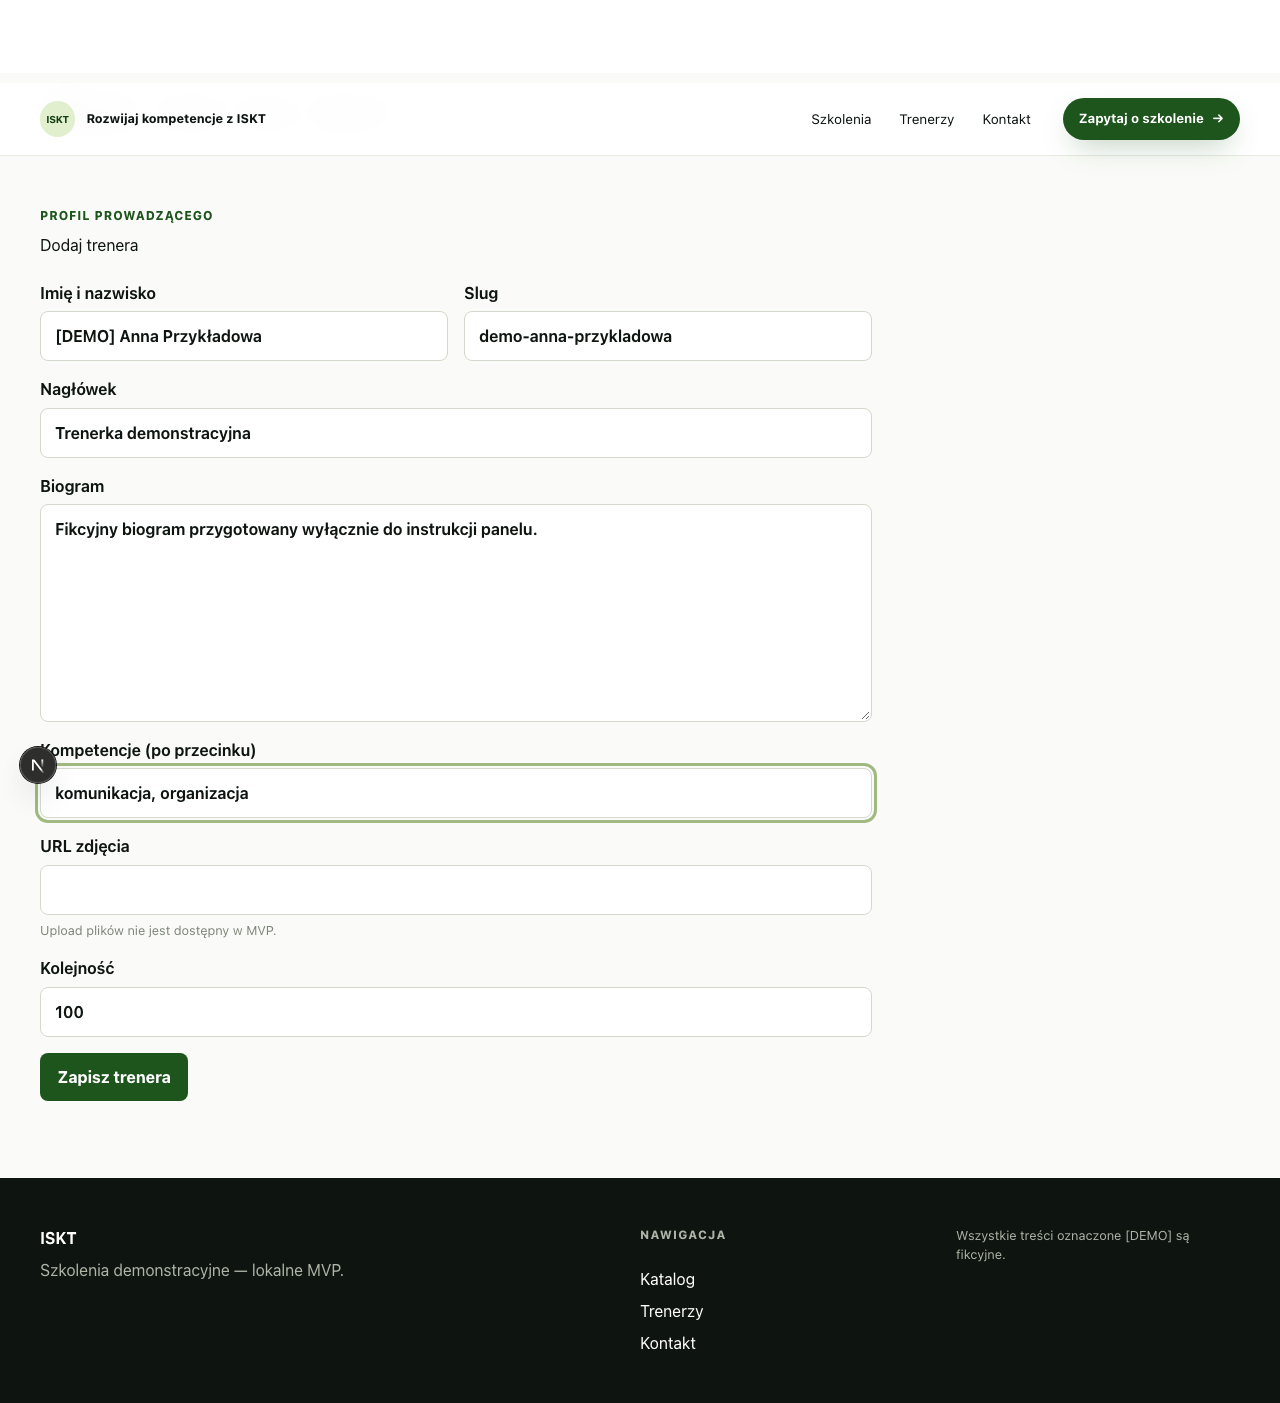
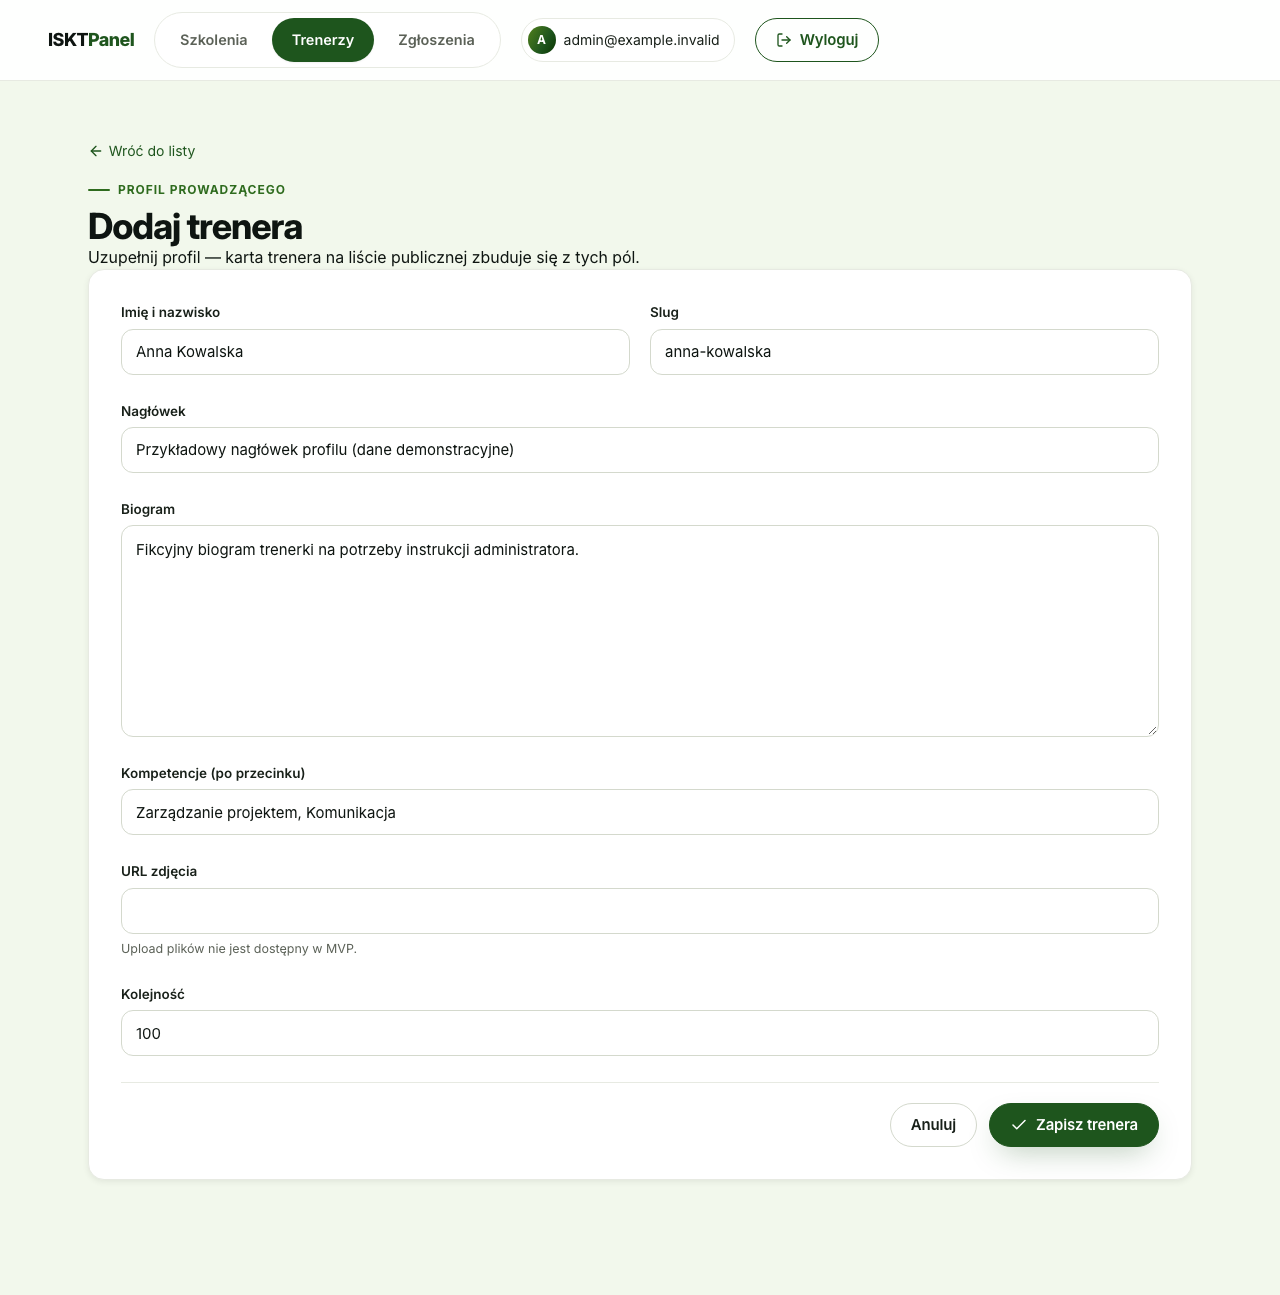
docs(isk-427): odswiezone 18 zrzutow instrukcji — panel V1 zamiast stanu sprzed redesignu (ISK-427)
Domyka ISK-427. Przebieg `zrzuty-instrukcji` wykonany na lokalnym stacku
(ISK-429), wszystkie 18 plikow nadpisane stanem `main` @ `9ae7205`.

CO ZRZUTY TERAZ POKAZUJA
Wlasna powloka panelu zamiast publicznego naglowka i stopki, TRZY pozycje
nawigacji (bez „Pulpit"), pigulka konta z adresem z sesji, pulpit
„Zarzadzanie oferta", karte „Notatka wewnetrzna" na szczegolach zgloszenia
i kolumne „Potwierdzenie" na liscie. Czyli dokladnie to, co tekst opisuje
od `e393ad1` — dokument i obrazki mowia wreszcie to samo.

POPRAWKA W SPECU: `getByRole("alert")` LAPALO DWA ELEMENTY
Next montuje `<div role="alert" id="__next-route-announcer__">` w KAZDYM
trybie, takze po buildzie produkcyjnym. Locator po roli trafial wiec
w anonser trasy i w `.panel-error` naraz i padal na strict mode — objaw
czytal sie jak brak komunikatu aplikacji, a byl kolizja z wlasnym
elementem frameworka. Celujemy w `.panel-error`, tak jak
`panel-wzorzec.spec.ts`.

ZGLOSZENIE NA ZRZUTACH MA WLASNE DANE, NIE `createInquiry()`
Helper z `helpers/data.ts` dokleja losowy sufiks (`[TEST] Zglaszajacy
e01b8e48`, `zgloszenie-2273404c@…`), bo sluzy testom, ktore nie moga sie
zderzac. Na zrzucie do instrukcji czyta sie to jak artefakt testu, a nie
jak panel — czyli dokladnie to, przed czym bronila zasada stalego slugu
przy trenerce i szkoleniu. `INQUIRY` jest wiec stale i jawnie fikcyjne
(`example.invalid`, RFC 2606), a `cleanup()` kasuje je po przebiegu.
[…]

diff --git a/tests/e2e/zrzuty-instrukcji.spec.ts b/tests/e2e/zrzuty-instrukcji.spec.ts
@@ -28,7 +28,6 @@ import path from "node:path";
 import { expect, test, type Page } from "@playwright/test";
 
 import { loginAsAdmin, loginViaUi } from "./helpers/auth";
-import { createInquiry } from "./helpers/data";
 import { ADMIN_EMAIL, serviceClient } from "./helpers/stack";
 
 const outputDirectory = process.env.INSTRUKCJA_DIR;
@@ -74,6 +73,26 @@ const TRAINER = {
   competences: "Zarządzanie projektem, Komunikacja",
 } as const;
 
+/**
+ * Zgloszenie pokazywane na zrzutach 15-18.
+ *
+ * Wlasne dane, a NIE `createInquiry()` z helperow: tamten helper dokleja losowy
+ * sufiks (`[TEST] Zglaszajacy e01b8e48`, `zgloszenie-2273404c@...`), bo sluzy
+ * testom, ktore musza sie nie zderzac. Na zrzucie do instrukcji czyta sie to
+ * jak artefakt testu, a nie jak panel — czyli dokladnie to, przed czym broni
+ * zasada stalego slugu przy TRAINER/TRAINING. Dane sa jawnie fikcyjne
+ * (domena `.invalid` jest zarezerwowana, RFC 2606; ADR-0002 §6).
+ */
+const INQUIRY = {
+  fullName: "Jan Nowak",
+  email: "jan.nowak@example.invalid",
+  phone: "+48 600 000 000",
+  interestArea: "Zarządzanie projektem",
+  message:
+    "Fikcyjna treść zgłoszenia na potrzeby instrukcji administratora. " +
+    "Proszę o kontakt i informację o najbliższym terminie.",
+} as const;
+
 const TRAINING = {
   slug: "zarzadzanie-projektem",
   title: "Zarządzanie projektem",
@@ -98,12 +117,45 @@ async function cleanup(): Promise<void> {
   const svc = serviceClient();
   await svc.from("trainings").delete().eq("slug", TRAINING.slug);
   await svc.from("trainers").delete().eq("slug", TRAINER.slug);
+  await svc.from("inquiries").delete().eq("email", INQUIRY.email);
+}
+
+/** Zakłada zgłoszenie z `INQUIRY` i zwraca jego `id`. */
+async function createInstructionInquiry(): Promise<string> {
+  const { data, error } = await serviceClient()
+    .from("inquiries")
+    .insert({
+      kind: "osoba",
+      full_name: INQUIRY.fullName,
+      email: INQUIRY.email,
+      phone: INQUIRY.phone,
+      // CHECK `inquiries_has_subject`: zgloszenie musi wskazywac albo
+      // konkretne szkolenie (`training_id`), albo obszar zainteresowania.
+      interest_area: INQUIRY.interestArea,
+      message: INQUIRY.message,
+      rodo_ack: true,
+      rodo_clause_version: "draft-2026-10",
+      status: "nowe",
+    })
+    .select("id")
+    .single();
+  if (error) throw error;
+  return data.id as string;
 }
 
 async function shoot(page: Page, name: string): Promise<void> {
   // Zrzuty ida do repozytorium, wiec musza byc powtarzalne: bez kursora
   // mrugajacego w polu i bez animacji w polowie przejscia.
   await page.evaluate(() => (document.activeElement as HTMLElement)?.blur?.());
+  // PRZEWIJAMY NA GORE PRZED ZRZUTEM — inaczej `fullPage` sklei bzdure.
+  // Naglowek panelu jest `position: sticky`. Przy `fullPage: true` Playwright
+  // sklada obraz z przewijanej strony, wiec element przyklejony do okna ladowal
+  // w POLOWIE zrzutu, nad karta „Dane kontaktowe", a gora strony zostawala
+  // pusta. Dotyczylo to zrzutow robionych po kliknieciu w przyciski stanu
+  // („Ustaw: W toku", „Ustaw: Zamkniete"), ktore leza nisko na stronie i same
+  // przewijaja widok. Test przechodzil — artefakt widac dopiero okiem
+  // (zmierzone na 17 i 18, ISK-429).
+  await page.evaluate(() => window.scrollTo(0, 0));
   await page.waitForTimeout(150);
   await page.screenshot({
     path: path.join(outputDirectory!, `${name}.png`),
@@ -160,7 +212,14 @@ test.describe("Zrzuty do instrukcji administratora", () => {
 
     // Odmowa uwierzytelnienia — wlasciwe haslo celowo zle.
     await loginViaUi(page, ADMIN_EMAIL, "zle-haslo-na-potrzeby-zrzutu");
-    const alert = page.getByRole("alert");
+    // Celujemy w `.panel-error`, a NIE w `getByRole("alert")` — tak samo jak
+    // `panel-wzorzec.spec.ts`. Uwaga: tamten komentarz przypisuje kolizje
+    // nakladce `next dev`, ale ten przebieg idzie po buildzie produkcyjnym
+    // (`PLAYWRIGHT_USE_BUILD=1`) i kolizja wystepuje TAK SAMO: Next montuje
+    // `<div role="alert" id="__next-route-announcer__">` w kazdym trybie.
+    // `getByRole("alert")` zwraca wiec dwa elementy i pada na strict mode,
+    // a nie na braku komunikatu aplikacji (zmierzone 2026-10-23, ISK-429).
+    const alert = page.locator(".panel-error");
     await expect(alert).toContainText("Nie udało się zalogować");
     await shoot(page, SHOT.loginError);
   });
@@ -286,15 +345,15 @@ test.describe("Zrzuty do instrukcji administratora", () => {
     // Zgloszenie zakladamy przez `serviceClient`, nie przez publiczny formularz:
     // formularz ma honeypot, `MIN_FILL_MS` i wspolny limiter IP, ktore do zrzutu
     // nic nie wnosza, a potrafia przebieg wywrocic.
-    const inquiry = await createInquiry();
+    const inquiryId = await createInstructionInquiry();
 
     await loginAsAdmin(page);
     await page.goto("/panel/zgloszenia");
-    const row = page.getByRole("row").filter({ hasText: inquiry.email });
+    const row = page.getByRole("row").filter({ hasText: INQUIRY.email });
     await expect(row).toBeVisible();
     await shoot(page, SHOT.inquiryList);
 
-    await page.goto(`/panel/zgloszenia/${inquiry.id}`);
+    await page.goto(`/panel/zgloszenia/${inquiryId}`);
     await expect(
       page.getByRole("heading", { name: "Treść zgłoszenia" }),
     ).toBeVisible();
@@ -313,6 +372,6 @@ test.describe("Zrzuty do instrukcji administratora", () => {
     await expect(page.getByText("Zamknięte").first()).toBeVisible();
     await shoot(page, SHOT.inquiryClosed);
 
-    await serviceClient().from("inquiries").delete().eq("id", inquiry.id);
+    await serviceClient().from("inquiries").delete().eq("id", inquiryId);
   });
 });

diff --git a/docs/instrukcja-administratora/README.md b/docs/instrukcja-administratora/README.md
@@ -4,7 +4,7 @@ Ta instrukcja prowadzi krok po kroku przez czynności dostępne w panelu pod adr
 
 > **Stan dokumentu.** Treść opisuje panel w wersji V1 — stan gałęzi `main` na commicie `9ae7205`. Poprzednia wersja instrukcji powstała przed redesignem V1 (commit `9469014`, 2026-10-09) i opisywała panel, którego już nie ma; ISK-427 doprowadził tekst do stanu faktycznego.
 >
-> **Zrzuty ekranu w katalogu `images/` są nadal te sprzed V1** i pokazują poprzedni wygląd panelu. Rozkład ekranów, nazwy przycisków i kolumn w tekście poniżej są zweryfikowane w kodzie i mają pierwszeństwo przed zrzutami. Odświeżenie zrzutów jest prowadzone osobno — patrz §10.
+> **Zrzuty ekranu odświeżono 2026-10-23** z tego samego stanu kodu, na lokalnym środowisku z danymi demonstracyjnymi. Odtwarza je `tests/e2e/zrzuty-instrukcji.spec.ts` — patrz §10.
 
 Panel ma **własną powłokę**: nie widać w nim publicznego nagłówka ani stopki serwisu. U góry znajdziesz link **ISKT Panel** (wraca na pulpit), nawigację obszarów, adres zalogowanego konta oraz przycisk **Wyloguj**. Nawigacja panelu ma trzy pozycje: **Szkolenia**, **Trenerzy** i **Zgłoszenia**. Pulpit nie jest osobną zakładką — wracasz na niego linkiem **ISKT Panel**.
 
@@ -269,9 +269,9 @@ Co pozostaje do rozważenia:
 
 ## 10. Zrzuty ekranu
 
-Zrzuty w katalogu `images/` pochodzą z 2026-10-09 i pokazują panel **przed** redesignem V1. Opisy czynności w tekście powyżej są zweryfikowane w kodzie na `main` @ `9ae7205` i mają pierwszeństwo przed zrzutami.
+Wszystkie 18 zrzutów w katalogu `images/` pochodzi z 2026-10-23 i pokazuje panel w wersji V1 (`main` @ `9ae7205`). Poprzedni zestaw był z 2026-10-09 — przeżył cały redesign i nikt tego nie zauważył, bo nic nie wiąże obrazków z kodem.
 
-Zestaw odtwarza się jedną komendą — `tests/e2e/zrzuty-instrukcji.spec.ts` przechodzi tę samą ścieżkę co instrukcja i zapisuje wszystkie 18 plików pod ich obecnymi nazwami:
+Dlatego zestaw nie jest już robiony ręcznie. Odtwarza go jedna komenda — `tests/e2e/zrzuty-instrukcji.spec.ts` przechodzi tę samą ścieżkę co instrukcja i zapisuje wszystkie 18 plików pod ich obecnymi nazwami:
 
 ```bash
 INSTRUKCJA_DIR=docs/instrukcja-administratora/images \
@@ -280,4 +280,6 @@ PLAYWRIGHT_USE_BUILD=1 npx playwright test zrzuty-instrukcji --workers=1
 
 Wymaga uruchomionego lokalnego środowiska z danymi `[DEMO]` (patrz `docs/runbook/lokalne-uruchomienie.md`). Bez zmiennej `INSTRUKCJA_DIR` ten plik testowy jest pomijany, więc zwykły przebieg CI nie nadpisuje dokumentacji. `PLAYWRIGHT_USE_BUILD=1` jest istotne: `next dev` dokłada własną nakładkę błędów, która trafiłaby na zrzut.
 
-Wykonanie tego przebiegu wymaga wolnego środowiska lokalnego i jest prowadzone osobno — patrz zadanie potomne ISK-427.
+Przebieg zakłada własne dane demonstracyjne (trenerka „Anna Kowalska”, szkolenie „Zarządzanie projektem”, zgłoszenie od „Jana Nowaka”) i kasuje je po sobie, więc nie zostawia śladu w bazie. Wszystkie dane są fikcyjne, a adresy e-mail w zarezerwowanej domenie `example.invalid`.
+
+**Po każdej zmianie wyglądu panelu uruchom tę komendę ponownie** — inaczej instrukcja znów zacznie pokazywać produkt, którego nie ma.
